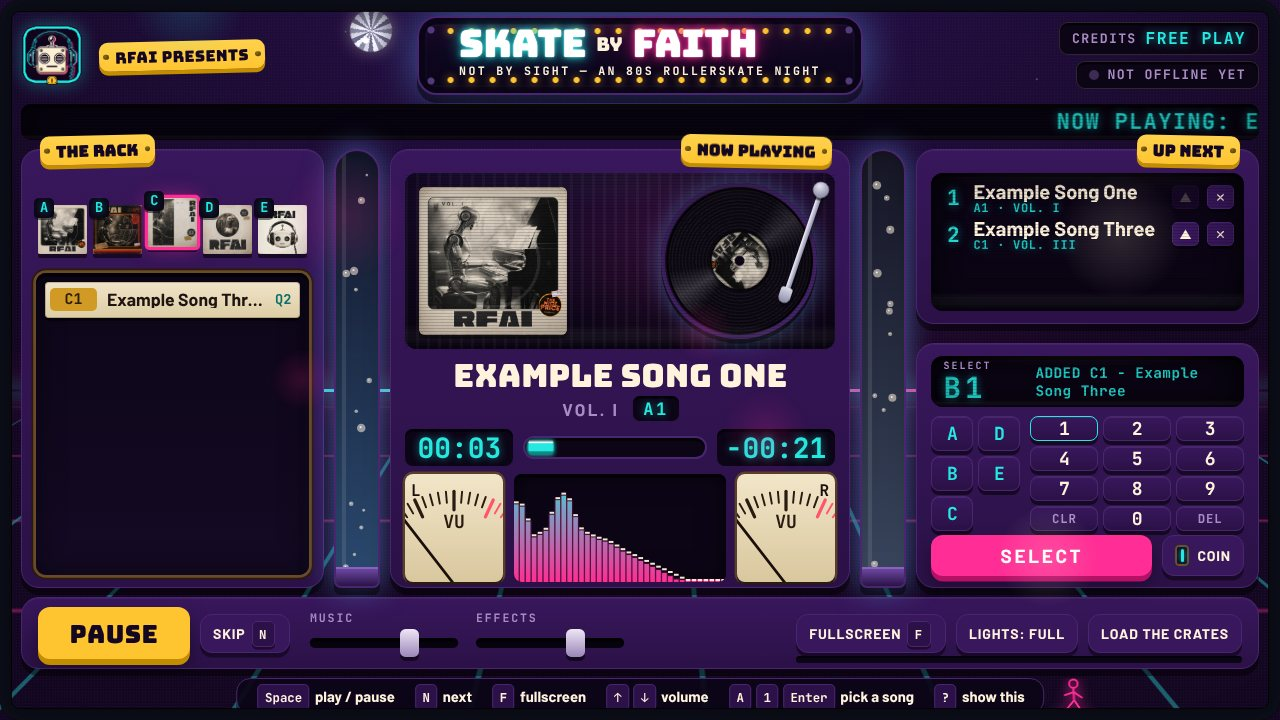
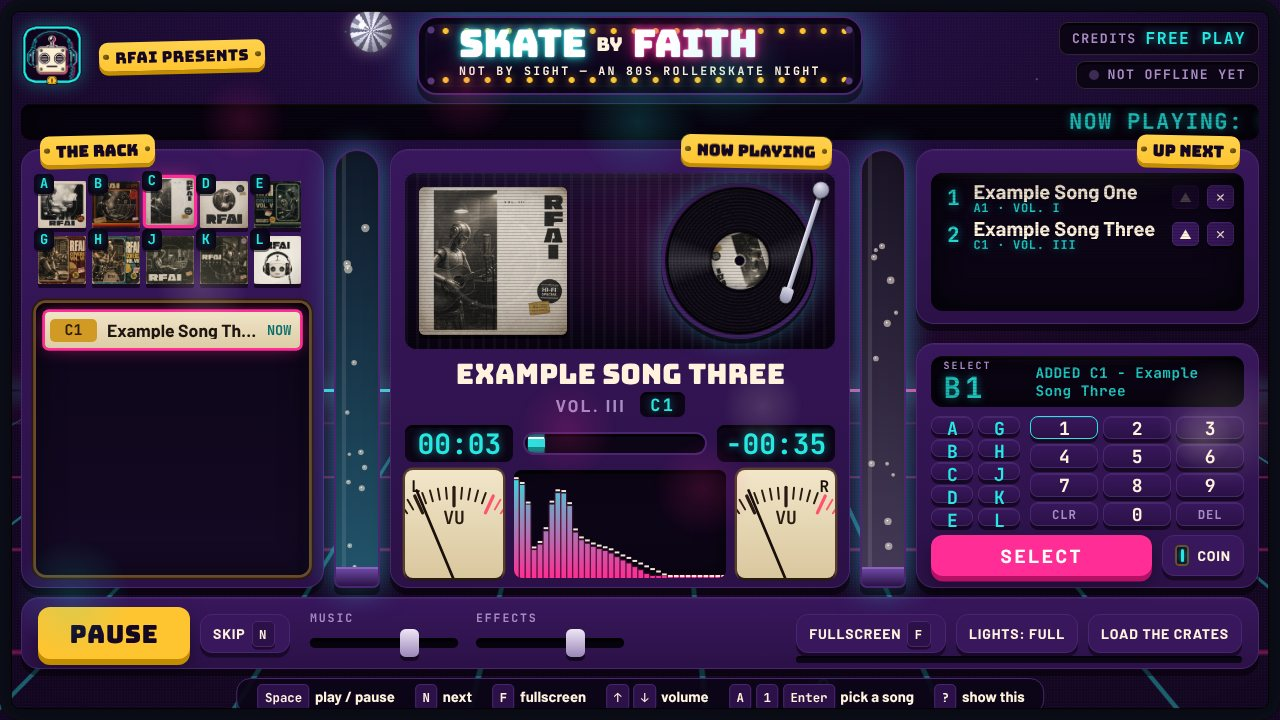
feat: add covers Vol. V-IX (all ten covers); rack wraps to two rows, keypad fits ten letters
New 'wine' accent for Vol. VI. Codes follow list order skipping F/I/N/O
(I=A ... V=E, VI=G, VII=H, VIII=J, IX=K, X=L), documented in README and
tracks.js. Probe concurrency lowered to keep connections free for images.

Claude-Session: https://claude.ai/code/session_019UepSTK4gBiwDTjkX8XKsc

diff --git a/styles.css b/styles.css
@@ -47,14 +47,14 @@
   --gold-deep:#C28E00;
   --line:rgba(255,243,222,.14);
 
-  /* --- sleeve material only. Gold, rust, paper, sepia and ink are sampled from
-         the real RFAI covers (Vol. I-IV, X): mustard + orange-red stripes of
-         Vol. II, cream card, sepia photos, ink-black lettering. Teal and mauve
-         are the brief's accents for later volumes (V, IX); no cover uses them yet. --- */
+  /* --- sleeve material only, sampled from the real RFAI covers (Vol. I-X):
+         teal (V, VII, X), mauve (IV, IX), mustard (II, III, VI, VII), orange-red
+         (II), maroon (VI), cream card, sepia photos, ink-black lettering. --- */
   --sl-teal:#3E8F8A;
   --sl-mauve:#9B6A87;
   --sl-gold:#D09A25;
   --sl-rust:#C8461E;
+  --sl-wine:#7A1F2B;
   --sl-paper:#E2D8C6;
   --sl-sepia:#6D5036;
   --sl-ink:#1E1510;
@@ -79,6 +79,7 @@
 [data-accent="mauve"]{ --acc:var(--sl-mauve); --acc-ink:#FFF6FB; }
 [data-accent="gold"]{ --acc:var(--sl-gold); --acc-ink:#2A1C06; }
 [data-accent="rust"]{ --acc:var(--sl-rust); --acc-ink:#FFF6EE; }
+[data-accent="wine"]{ --acc:var(--sl-wine); --acc-ink:#FFF3DE; }
 [data-accent="paper"]{ --acc:var(--sl-paper); --acc-ink:#2A1C06; }
 [data-accent="sepia"]{ --acc:var(--sl-sepia); --acc-ink:#FFF3DE; }
 
@@ -451,14 +452,14 @@ body.on-attract .rig{ visibility:hidden; }
 
 /* ================= LEFT: rack + title strips ================= */
 .rack-panel{ display:flex; flex-direction:column; gap:.8rem; }
-.rack{ display:flex; gap:.3rem; align-items:flex-end; flex:0 0 auto; padding:.45rem .1rem .15rem; min-height:4.2rem; }
+.rack{ display:flex; flex-wrap:wrap; gap:.4rem .3rem; align-items:flex-end; flex:0 0 auto; padding:.4rem .1rem .15rem; min-height:3.6rem; }
 .rack-sleeve{
-  flex:1 1 0; min-width:2rem; max-width:3.9rem; padding:0; border:0; background:none; cursor:pointer; position:relative;
+  flex:0 1 calc(20% - .3rem); min-width:2rem; max-width:3.9rem; padding:0; border:0; background:none; cursor:pointer; position:relative;
   transition:transform .25s var(--ease-out);
 }
 .rack-sleeve .sleeve{ transition:box-shadow .2s ease; }
-.rack-sleeve:hover{ transform:translateY(-.2rem); }
-.rack-sleeve.is-open{ transform:translateY(-.35rem); }
+.rack-sleeve:hover{ transform:translateY(-.12rem); }
+.rack-sleeve.is-open{ transform:translateY(-.15rem); }
 .rack-sleeve.is-open .sleeve{ box-shadow:0 0 0 .16rem var(--magenta), 0 .25rem 0 rgba(0,0,0,.55), 0 0 1rem rgba(255,45,149,.55); }
 .rack-sleeve.is-spotlight{ transform:translateY(-.5rem) scale(1.08); }
 .rack-sleeve.is-spotlight .sleeve{ box-shadow:0 0 0 .14rem var(--cyan), 0 .25rem 0 rgba(0,0,0,.55), 0 0 1rem rgba(37,232,226,.55); }
@@ -631,11 +632,12 @@ body.on-attract .rig{ visibility:hidden; }
 .readout-msg[data-kind="bad"]{ color:var(--red); }
 .readout-msg[data-kind="good"]{ color:var(--cyan); }
 
-.keypad{ display:grid; grid-template-columns:auto minmax(0,1fr); gap:.5rem; flex:1; min-height:0; }
-.key-letters{ display:grid; grid-auto-flow:column; grid-template-rows:repeat(var(--letter-rows,4), 1fr); grid-auto-columns:2.1rem; gap:.25rem; }
-.key-digits{ display:grid; grid-template-columns:repeat(3,1fr); grid-template-rows:repeat(4,1fr); gap:.25rem; }
+.keypad{ display:grid; grid-template-columns:auto minmax(0,1fr); grid-template-rows:minmax(0,1fr); gap:.5rem; flex:1; min-height:0; }
+.key-letters, .key-digits{ min-height:0; }
+.key-letters{ display:grid; grid-auto-flow:column; grid-template-rows:repeat(var(--letter-rows,4), minmax(0,1fr)); grid-auto-columns:2.1rem; gap:.25rem; }
+.key-digits{ display:grid; grid-template-columns:repeat(3,1fr); grid-template-rows:repeat(4,minmax(0,1fr)); gap:.25rem; }
 .key{
-  min-height:0; padding:0; cursor:pointer;
+  min-height:0; padding:0; cursor:pointer; line-height:1;
   font:700 .9rem var(--font-mono); color:var(--cream);
   background:linear-gradient(180deg, var(--cab-2), var(--cab)); border:1px solid var(--cab-edge); border-radius:.4rem;
   box-shadow:0 .2rem 0 rgba(0,0,0,.55), inset 0 1px 0 rgba(255,255,255,.08);

diff --git a/tracks.js b/tracks.js
@@ -22,7 +22,7 @@
      cover   the picture file in the covers folder, e.g. "covers/vol-v.jpg"
              (if the picture is missing, the jukebox draws a plain sleeve)
      accent  the paint colour for this volume's code chips and record label.
-             Pick ONE of:  "teal"  "mauve"  "gold"  "rust"  "paper"  "sepia"
+             Pick ONE of:  "teal"  "mauve"  "gold"  "rust"  "wine"  "paper"  "sepia"
 
    Each volume gets a letter automatically, in the order listed:
    the first is A, the second B, the third C, and so on.
@@ -40,14 +40,21 @@
    ============================================================ */
 
 export const volumes = [
-  // Your five covers so far. Letters come from this ORDER: Vol. I is A, Vol. II
-  // is B, Vol. III is C, Vol. IV is D, Vol. X is E. When you add Vol. V, put it
-  // between IV and X if you want X to stay last (X would then become F).
-  { id: 'vol-i',   title: 'Vol. I',   cover: 'covers/vol-i.jpg',   accent: 'sepia' },
-  { id: 'vol-ii',  title: 'Vol. II',  cover: 'covers/vol-ii.jpg',  accent: 'rust' },
-  { id: 'vol-iii', title: 'Vol. III', cover: 'covers/vol-iii.jpg', accent: 'gold' },
-  { id: 'vol-iv',  title: 'Vol. IV',  cover: 'covers/vol-iv.jpg',  accent: 'mauve' },
-  { id: 'vol-x',   title: 'Vol. X',   cover: 'covers/vol-x.jpg',   accent: 'teal' },
+  // All ten covers. The letter comes from this ORDER (F, I, N and O are skipped,
+  // see "How the codes work" in the README):
+  //   Vol. I = A    Vol. II = B    Vol. III = C    Vol. IV = D    Vol. V = E
+  //   Vol. VI = G   Vol. VII = H   Vol. VIII = J   Vol. IX = K    Vol. X = L
+  // Add Vol. XI at the END of this list (it becomes M) so no existing code changes.
+  { id: 'vol-i',    title: 'Vol. I',    cover: 'covers/vol-i.jpg',    accent: 'sepia' },
+  { id: 'vol-ii',   title: 'Vol. II',   cover: 'covers/vol-ii.jpg',   accent: 'rust' },
+  { id: 'vol-iii',  title: 'Vol. III',  cover: 'covers/vol-iii.jpg',  accent: 'gold' },
+  { id: 'vol-iv',   title: 'Vol. IV',   cover: 'covers/vol-iv.jpg',   accent: 'mauve' },
+  { id: 'vol-v',    title: 'Vol. V',    cover: 'covers/vol-v.jpg',    accent: 'teal' },
+  { id: 'vol-vi',   title: 'Vol. VI',   cover: 'covers/vol-vi.jpg',   accent: 'wine' },
+  { id: 'vol-vii',  title: 'Vol. VII',  cover: 'covers/vol-vii.jpg',  accent: 'gold' },
+  { id: 'vol-viii', title: 'Vol. VIII', cover: 'covers/vol-viii.jpg', accent: 'sepia' },
+  { id: 'vol-ix',   title: 'Vol. IX',   cover: 'covers/vol-ix.jpg',   accent: 'mauve' },
+  { id: 'vol-x',    title: 'Vol. X',    cover: 'covers/vol-x.jpg',    accent: 'teal' },
 ];
 
 export const tracks = [

diff --git a/ui.js b/ui.js
@@ -161,7 +161,7 @@ export function createUI({ library, getStatus, handlers }) {
     ['1','2','3','4','5','6','7','8','9'].forEach((d) => digits.append(mk(d, d)));
     digits.append(mk('CLR', 'CLEAR', 'key-fn'), mk('0', '0'), mk('DEL', 'BACK', 'key-fn'));
     const n = Math.max(1, library.volumes.length);
-    const rows = n <= 4 ? n : n <= 8 ? Math.ceil(n / 2) : Math.ceil(n / 3);   // 5 volumes -> two columns of 3 and 2
+    const rows = n <= 4 ? n : n <= 10 ? Math.ceil(n / 2) : Math.ceil(n / 3);   // e.g. 10 volumes -> two columns of 5
     letters.style.setProperty('--letter-rows', rows);
   }
 

diff --git a/tests/codes.test.js b/tests/codes.test.js
@@ -82,7 +82,7 @@ test('an unknown accent falls back to gold but keeps the volume', () => {
   );
   assert.equal(lib.volumes[0].accent, 'gold');
   assert.equal(lib.problems.length, 1);
-  assert.ok(['teal', 'mauve', 'gold', 'rust', 'paper', 'sepia'].every((a) => ACCENTS.includes(a)));
+  assert.ok(['teal', 'mauve', 'gold', 'rust', 'wine', 'paper', 'sepia'].every((a) => ACCENTS.includes(a)));
 });
 
 test('volumes beyond the available letters are reported, not crashed on', () => {

diff --git a/codes.js b/codes.js
@@ -21,7 +21,7 @@ export const CODE_LETTERS = 'ABCDEGHJKLMPQRSTUVWXYZ';
 
 // The accent words Ben can write in tracks.js. Each one is a paint colour
 // sampled for the sleeve material (see the --sl-* tokens in styles.css).
-export const ACCENTS = ['teal', 'mauve', 'gold', 'rust', 'paper', 'sepia'];
+export const ACCENTS = ['teal', 'mauve', 'gold', 'rust', 'wine', 'paper', 'sepia'];
 
 const DEFAULT_ACCENT = 'gold';
 

diff --git a/player.js b/player.js
@@ -209,7 +209,7 @@ export async function probeTrack(url, timeoutMs = 20000) {
 }
 
 /* Probe many files, a few at a time, reporting each as it arrives. */
-export async function probeAll(tracks, onResult, concurrency = 3) {
+export async function probeAll(tracks, onResult, concurrency = 2) {
   let i = 0;
   const worker = async () => {
     while (i < tracks.length) {

diff --git a/README.md b/README.md
@@ -72,9 +72,9 @@ The jukebox finds each song by its file name, so give every file a simple name:
 4. Drag your renamed MP3s into the box (up to 100 at once).
 5. Scroll down and click the green **Commit changes** button.
 
-The covers for Vol. I, II, III, IV and X are already in the **`covers`** folder.
+The covers for Vol. I to Vol. X are already in the **`covers`** folder.
 For a new volume, do the same inside `covers` with a square `.jpg` named like
-`vol-v.jpg`.
+`vol-xi.jpg`.
 
 > Limits: GitHub's website refuses a single file over **25 MB** (Suno MP3s are
 > well under that). The whole site should stay under about **1 GB** - roughly 150
@@ -119,22 +119,30 @@ What each part means:
 **How the codes work:** each volume gets a letter in the order they are listed -
 the first volume is **A**, the second **B**, and so on. Each song gets a number
 in the order it appears within its volume. So the first Vol. II song is `B1`, because
-Vol. II is the second volume in the list (Vol. I = A, II = B, III = C, IV = D, X = E). Moving a song up or down the list changes its code.
+Vol. II is the second volume in the list.
+
+| Volume | I | II | III | IV | V | VI | VII | VIII | IX | X |
+|---|---|---|---|---|---|---|---|---|---|---|
+| Letter | A | B | C | D | E | **G** | **H** | **J** | **K** | **L** |
+
+Notice the skipped letters: F is the fullscreen key, and I, N and O are never
+used, so Vol. VI is **G**, not F. This table is also written at the top of
+`tracks.js`. Moving a song up or down the list changes its code.
 (Letters F, N, I and O are skipped: F and N are keyboard shortcuts, and I and O
 look like 1 and 0 from across the rink.)
 
 **Adding a whole new album (volume):** add a line inside the `volumes = [` list:
 
 ```js
-  { id: 'vol-v', title: 'Vol. V', cover: 'covers/vol-v.jpg', accent: 'teal' },
+  { id: 'vol-xi', title: 'Vol. XI', cover: 'covers/vol-xi.jpg', accent: 'teal' },
 ```
 
 `accent` is the colour of that album's little code chips and record label. Choose
-one: `teal`, `mauve`, `gold`, `rust`, `paper`, `sepia`.
+one: `teal`, `mauve`, `gold`, `rust`, `wine`, `paper`, `sepia`.
 
-Where you put the line matters: it sets the album's letter. If you add Vol. V
-*after* Vol. X, it becomes F; if you add it *between* IV and X, it becomes E and
-Vol. X moves to F (and every Vol. X song code changes with it).
+Where you put the line matters: it sets the album's letter. Add new volumes at
+the **end** of the list (Vol. XI becomes **M**). Putting one in the middle shifts
+the letters, and so every song code, of the volumes after it.
 
 **If you break something:** a red button appears in the top right of the jukebox
 saying **CHECK TRACKS.JS**. Click it - it lists, in plain English, what is wrong

diff --git a/DESIGN.md b/DESIGN.md
@@ -77,20 +77,19 @@ Sleeve tokens (used **only** on sleeve and sticker materials, plus the record
 label and the volume code chips):
 
 ```
---sl-gold   #D09A25   mustard stripe (Vol. II), Vol. III sticker
+--sl-gold   #D09A25   mustard of Vol. II, III, VI, VII
 --sl-rust   #C8461E   orange-red stripe and frame (Vol. II)
 --sl-paper  #E2D8C6   cream card (Vol. I, III, IV, X)
 --sl-sepia  #6D5036   sepia photography
 --sl-ink    #1E1510   print ink
---sl-teal   #3E8F8A   brief's accent for Vol. V - no cover uses it yet
---sl-mauve  #9B6A87   brief's accent for Vol. IX - no cover uses it yet
+--sl-wine   #7A1F2B   maroon of Vol. VI
+--sl-teal   #3E8F8A   Vol. V, VII, X
+--sl-mauve  #9B6A87   Vol. IV, IX
 ```
 
-> The first five covers (Vol. I, II, III, IV, X) are in `covers/`; gold, rust,
-> paper and sepia were sampled from them by eye. Teal and mauve come from the
-> original brief for Vol. V and IX, which are not in the repo yet: re-sample them
-> when those covers arrive. Volumes are lettered A-E in this order: I, II, III,
-> IV, X.
+> All ten covers (Vol. I-X) are in `covers/`; every sleeve colour was sampled
+> from them by eye. Volumes are lettered in list order, skipping F, I, N, O:
+> I=A II=B III=C IV=D V=E VI=G VII=H VIII=J IX=K X=L.
 
 **One accent per job, never swapped:** magenta means "act here / selected",
 cyan means "this is a number or a light", gold means "this is the biggest

diff --git a/covers/README.md b/covers/README.md
@@ -1,12 +1,12 @@
 # covers/ - the album cover pictures
 
-Already here: `vol-i.jpg`, `vol-ii.jpg`, `vol-iii.jpg`, `vol-iv.jpg`, `vol-x.jpg`.
+Already here: `vol-i.jpg` to `vol-x.jpg` (Vol. I to Vol. X, ten covers).
 
 For a new volume, add one picture here. Square pictures look best (about
 900-1000 pixels across), as `.jpg`, under about 300 KB each.
 
 The name must match the `cover` line of that volume in `tracks.js`, for example
-`covers/vol-v.jpg`. Keep names lower case with dashes and no spaces.
+`covers/vol-xi.jpg`. Keep names lower case with dashes and no spaces.
 
 Use the **full cover artwork exactly as designed**, with its own worn paper edge,
 stickers and price tag. The jukebox shows it edge to edge as the sleeve and adds
